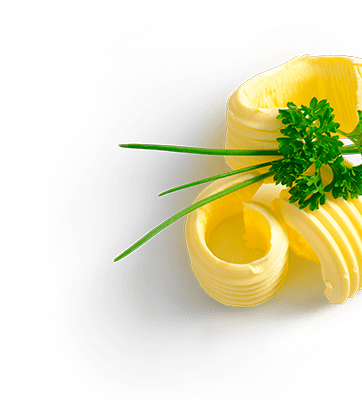
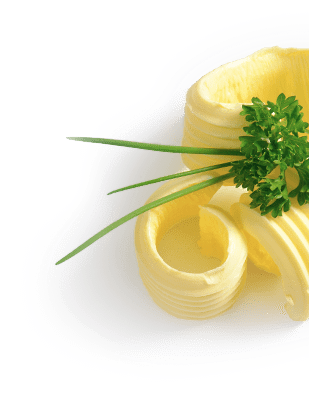
Правки №7 - Откат до прошлов версии

Changed region(s): [[0.1748, 0.09, 1.0, 0.84]]

diff --git a/css/style.css b/css/style.css
@@ -2825,8 +2825,8 @@ input[type="text"]:focus {
   .back-img__maslo {
     left: -125px;
     bottom: -45px;
-    width: 550px;
-    height: 400px;
+    width: 424px;
+    height: 358px;
     background: url("../images/slack/maslo.png") no-repeat; }
     @media only screen and (max-width: 1200px) {
       .back-img__maslo {
@@ -3913,8 +3913,8 @@ input[type="text"]:focus {
     z-index: -1;
     left: 0;
     top: 980px;
-    width: 405px;
-    height: 443px;
+    width: 324px;
+    height: 400px;
     background: url("../images/background/butter-about.png") no-repeat; }
     @media only screen and (max-width: 1680px) {
       .background-page__butter_about {
@@ -3924,8 +3924,8 @@ input[type="text"]:focus {
     z-index: -1;
     left: 0;
     top: 150px;
-    width: 447px;
-    height: 434px;
+    width: 366px;
+    height: 400px;
     background: url("../images/background/butter-contact.png") no-repeat; }
     @media only screen and (max-width: 1680px) {
       .background-page__butter_contact {
@@ -4331,8 +4331,8 @@ input[type="text"]:focus {
     z-index: -2;
     right: 0;
     bottom: 750px;
-    width: 362px;
-    height: 409px;
+    width: 309px;
+    height: 400px;
     background: url("../images/background/butter-right_event.png") no-repeat; }
     @media only screen and (max-width: 1660px) {
       .background-page__butter-right_event {

diff --git a/_frontend/blocks/background-page/style.scss b/_frontend/blocks/background-page/style.scss
@@ -57,8 +57,8 @@
             z-index: -1;
             left: 0;
             top: 980px;
-            width: 405px;
-            height: 443px;
+            width: 324px;
+            height: 400px;
             background: url('../images/background/butter-about.png') no-repeat;
             @media only screen and (max-width: 1680px) {
                 display: none;
@@ -69,8 +69,8 @@
             z-index: -1;
             left: 0;
             top: 150px;
-            width: 447px;
-            height: 434px;
+            width: 366px;
+            height: 400px;
             background: url('../images/background/butter-contact.png') no-repeat;
             @media only screen and (max-width: 1680px) {
                 display: none;
@@ -541,8 +541,8 @@
             z-index: -2;
             right: 0;
             bottom: 750px;
-            width: 362px;
-            height: 409px;
+            width: 309px;
+            height: 400px;
             background: url('../images/background/butter-right_event.png') no-repeat;
             @media only screen and (max-width: 1660px) {
                 display: none;

diff --git a/_frontend/blocks/back-img/style.scss b/_frontend/blocks/back-img/style.scss
@@ -25,8 +25,8 @@
     &__maslo {
         left: -125px;
         bottom: -45px;
-        width: 550px;
-        height: 400px;
+        width: 424px;
+        height: 358px;
         background: url("../images/slack/maslo.png") no-repeat;
         @include media(xl) {
             display: none;
